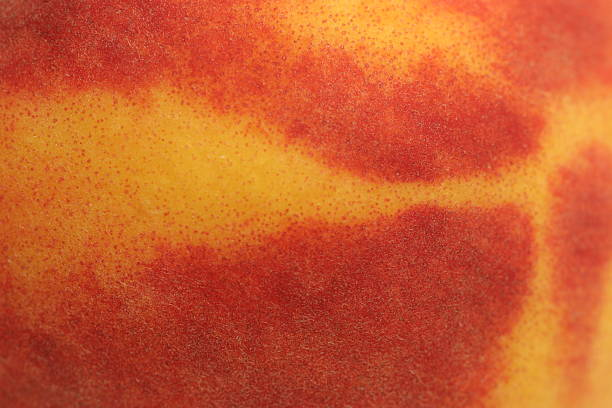
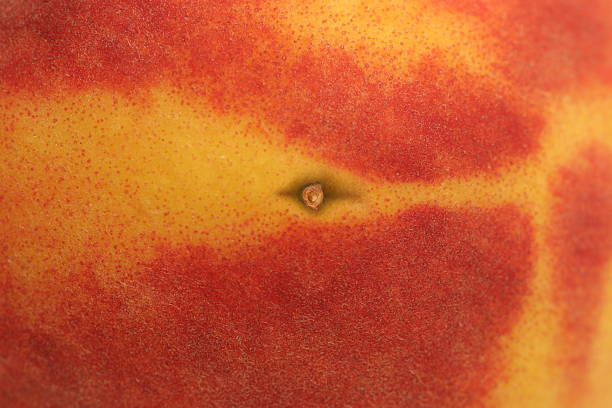
ojos y nuevas frutas

Changed region(s): [[0.4346, 0.4118, 0.5899, 0.5294]]

diff --git a/serpiente/main.cpp b/serpiente/main.cpp
@@ -8,7 +8,7 @@
 
 #include "geometrias.h"
 #include "serpiente.h"
-#include "comida.h"
+#include "fruta.h"
 
 //transformaciones
 #include <glm/glm.hpp>
@@ -32,9 +32,9 @@ GLuint VAOCuadrado;
 GLuint VAOCubo;
 GLuint VAOEsfera;
 
-Serpiente serpiente(3, &VAOCubo, 36);
+Serpiente serpiente(3, &VAOCubo, 36, &VAOEsfera, 1080);
 
-GLuint texturaSerpiente1, texturaSerpiente2, texturaManzana, hierba1, hierba2;
+GLuint texturaSerpiente1, texturaSerpiente2, texturaManzana, hierba1, hierba2, texturaOjo;
 
 
 void keyCallback(GLFWwindow* window, int key, int scancode, int action, int mods);
@@ -238,13 +238,14 @@ int main() {
 	//creamos las texturas
 	cargaTextura(&texturaSerpiente1,"../texturas/serpiente_marron.jpg");
 	cargaTextura(&texturaSerpiente2, "../texturas/serpiente_amarilla.jpg");
-	cargaTextura(&texturaManzana, "../texturas/manzana.jpg");
+	cargaTextura(&texturaManzana, "../texturas/melocoton.jpg");
 	cargaTextura(&hierba1, "../texturas/hierba1.jpg");
 	cargaTextura(&hierba2, "../texturas/hierba2.jpg");
-	serpiente.texturizar(texturaSerpiente1, texturaSerpiente2);
+	cargaTextura(&texturaOjo, "../texturas/ojo.jpg");
+	serpiente.texturizar(texturaSerpiente1, texturaSerpiente2, texturaOjo);
 	// Lazo de la ventana mientras no la cierre
 	// -----------
-	Comida comida(ESCALA/2.0, 0, &VAOEsfera, texturaManzana, 1080, 0, serpiente);
+	Fruta comida(ESCALA/2.0, 0, &VAOEsfera, texturaManzana, 1080, 0, serpiente);
 	while (!glfwWindowShouldClose(window)){
 		// input
 		// -----

diff --git a/serpiente/serpiente.h b/serpiente/serpiente.h
@@ -6,7 +6,7 @@
 #include <glm/gtc/type_ptr.hpp>
 #include "glad.h"
 #include "parte.h"
-#include "comida.h"
+#include "fruta.h"
 
 #define ARRIBA 0
 #define ABAJO 1
@@ -20,19 +20,21 @@ class Serpiente {
     private:
         std::vector<Parte> cuerpo;
         Parte cabeza;
+        Parte ojoIzquierdo;
+        Parte ojoDerecho;
         int longitud, direccion;
         double anterior;
         double velocidad;
         int puntos;
     public:
-        Serpiente(int longitud, GLuint* VAOserpiente, int ntriangulos);
-        void avanzar(class Comida* comida);
+        Serpiente(int longitud, GLuint* VAOCubo, int nTriangulosCubo, GLuint* VAOEsfera, int nTriangulosEsfera);
+        void avanzar(class Fruta* comida);
         void setDireccion(int direccion);
         int getDireccion();
         void dibujar(GLuint shader);
         Parte getCabeza();
         int getLongitud();
         std::vector<Parte> getCuerpo();
-        void texturizar(GLuint textura1, GLuint textura2);
+        void texturizar(GLuint textura1, GLuint textura2, GLuint texturaOjo);
         void girar(float giro);
 };

diff --git a/serpiente/Fruta.cpp b/serpiente/Fruta.cpp
@@ -1,8 +1,8 @@
 #include <ctime>
-#include "comida.h"
+#include "fruta.h"
 #include "serpiente.h"
 
-Comida::Comida(float escalado, float giro, GLuint* geometria, GLuint textura, GLuint n, int tipo, Serpiente s){
+Fruta::Fruta(float escalado, float giro, GLuint* geometria, GLuint textura, GLuint n, int tipo, Serpiente s){
     this->z = 1 * escalado;
     this->escalado = escalado;
     this->geometria = geometria;
@@ -14,7 +14,7 @@ Comida::Comida(float escalado, float giro, GLuint* geometria, GLuint textura, GL
     colocar(&s);
 }
 
-void Comida::colocar(Serpiente *s) {
+void Fruta::colocar(Serpiente *s) {
     float x, y, posicionValida;
     do {
         //establecemos la posicion como valida a priori
@@ -35,7 +35,7 @@ void Comida::colocar(Serpiente *s) {
     this->y = y;
 }
 
-void Comida::dibujar(GLuint shader) {
+void Fruta::dibujar(GLuint shader) {
     unsigned int modelLoc = glGetUniformLocation(shader, "model");
     //matriz de transformacion
     glm::mat4 model = glm::mat4();

diff --git a/serpiente/fruta.h b/serpiente/fruta.h
@@ -1,0 +1,20 @@
+#pragma once
+
+#include "glad.h"
+#include "parte.h"
+#include "serpiente.h"
+
+#define MANZANA 1
+#define NARANJA 2
+#define SANDIA 3
+#define MELOCOTON 4
+
+//clase hija de Parte
+class Fruta: public Parte {
+	private:
+		int tipo;
+	public:
+		void colocar(class Serpiente *s);
+		Fruta(float escalado, float giro, GLuint* geometria, GLuint textura, GLuint n, int tipo, class Serpiente s);
+		void dibujar(GLuint shader);
+};

diff --git a/serpiente/Parte.cpp b/serpiente/Parte.cpp
@@ -8,8 +8,8 @@ Parte::Parte(float x, float y, float z, float escalado, int giro, GLuint* geomet
     this->x = x;
     this->y = y;
     this->z = z;
-    this->giro = giro;
     this->escalado = escalado;
+    this->giro = giro;
     this->geometria = geometria;
     this->textura = textura;
     this->nTriangulos = n;
